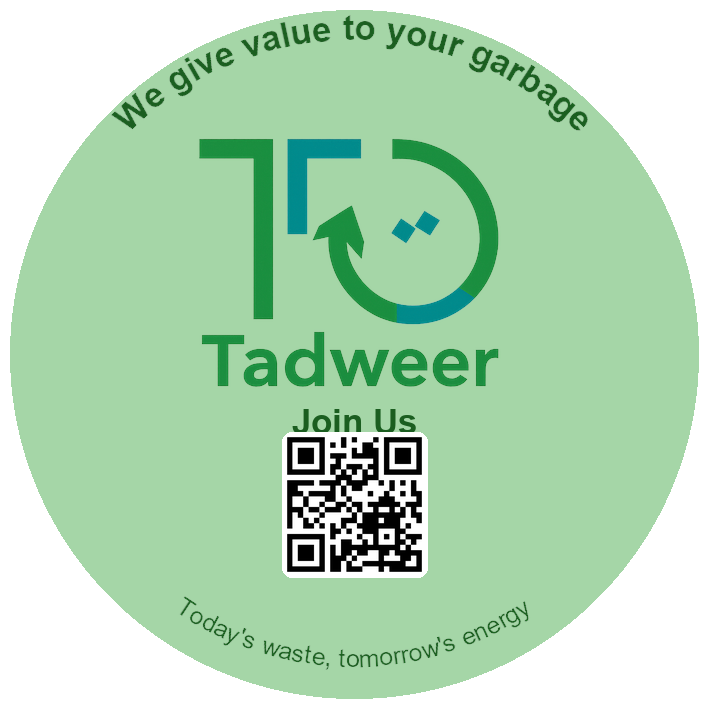
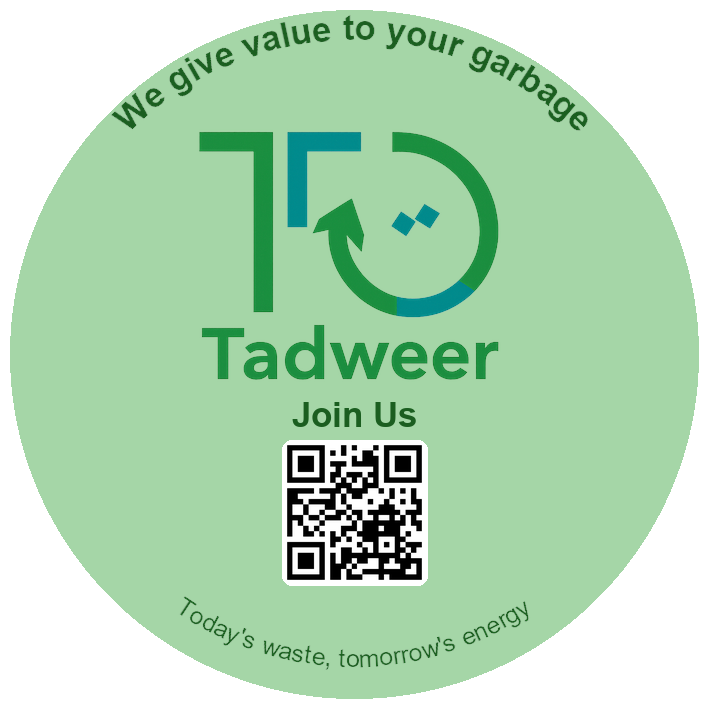
Move QR code lower by increasing gap

diff --git a/tools/generate_sticker_ar.py b/tools/generate_sticker_ar.py
@@ -111,7 +111,7 @@ h_join = bbox_join[3] - bbox_join[1]
 w_join = bbox_join[2] - bbox_join[0]
 
 gap_logo_join = 5 # Tight gap
-gap_join_qr = 5 # Tight gap
+gap_join_qr = 20 # Increased gap to push QR lower
 
 total_content_height = logo_h + gap_logo_join + h_join + gap_join_qr + qr_bg_size
 

diff --git a/tools/generate_sticker.py b/tools/generate_sticker.py
@@ -97,7 +97,7 @@ h_join = bbox_join[3] - bbox_join[1]
 w_join = bbox_join[2] - bbox_join[0]
 
 gap_logo_join = 5 # Tight gap
-gap_join_qr = 5 # Tight gap
+gap_join_qr = 20 # Increased gap to push QR lower
 
 total_content_height = logo_h + gap_logo_join + h_join + gap_join_qr + qr_bg_size
 
